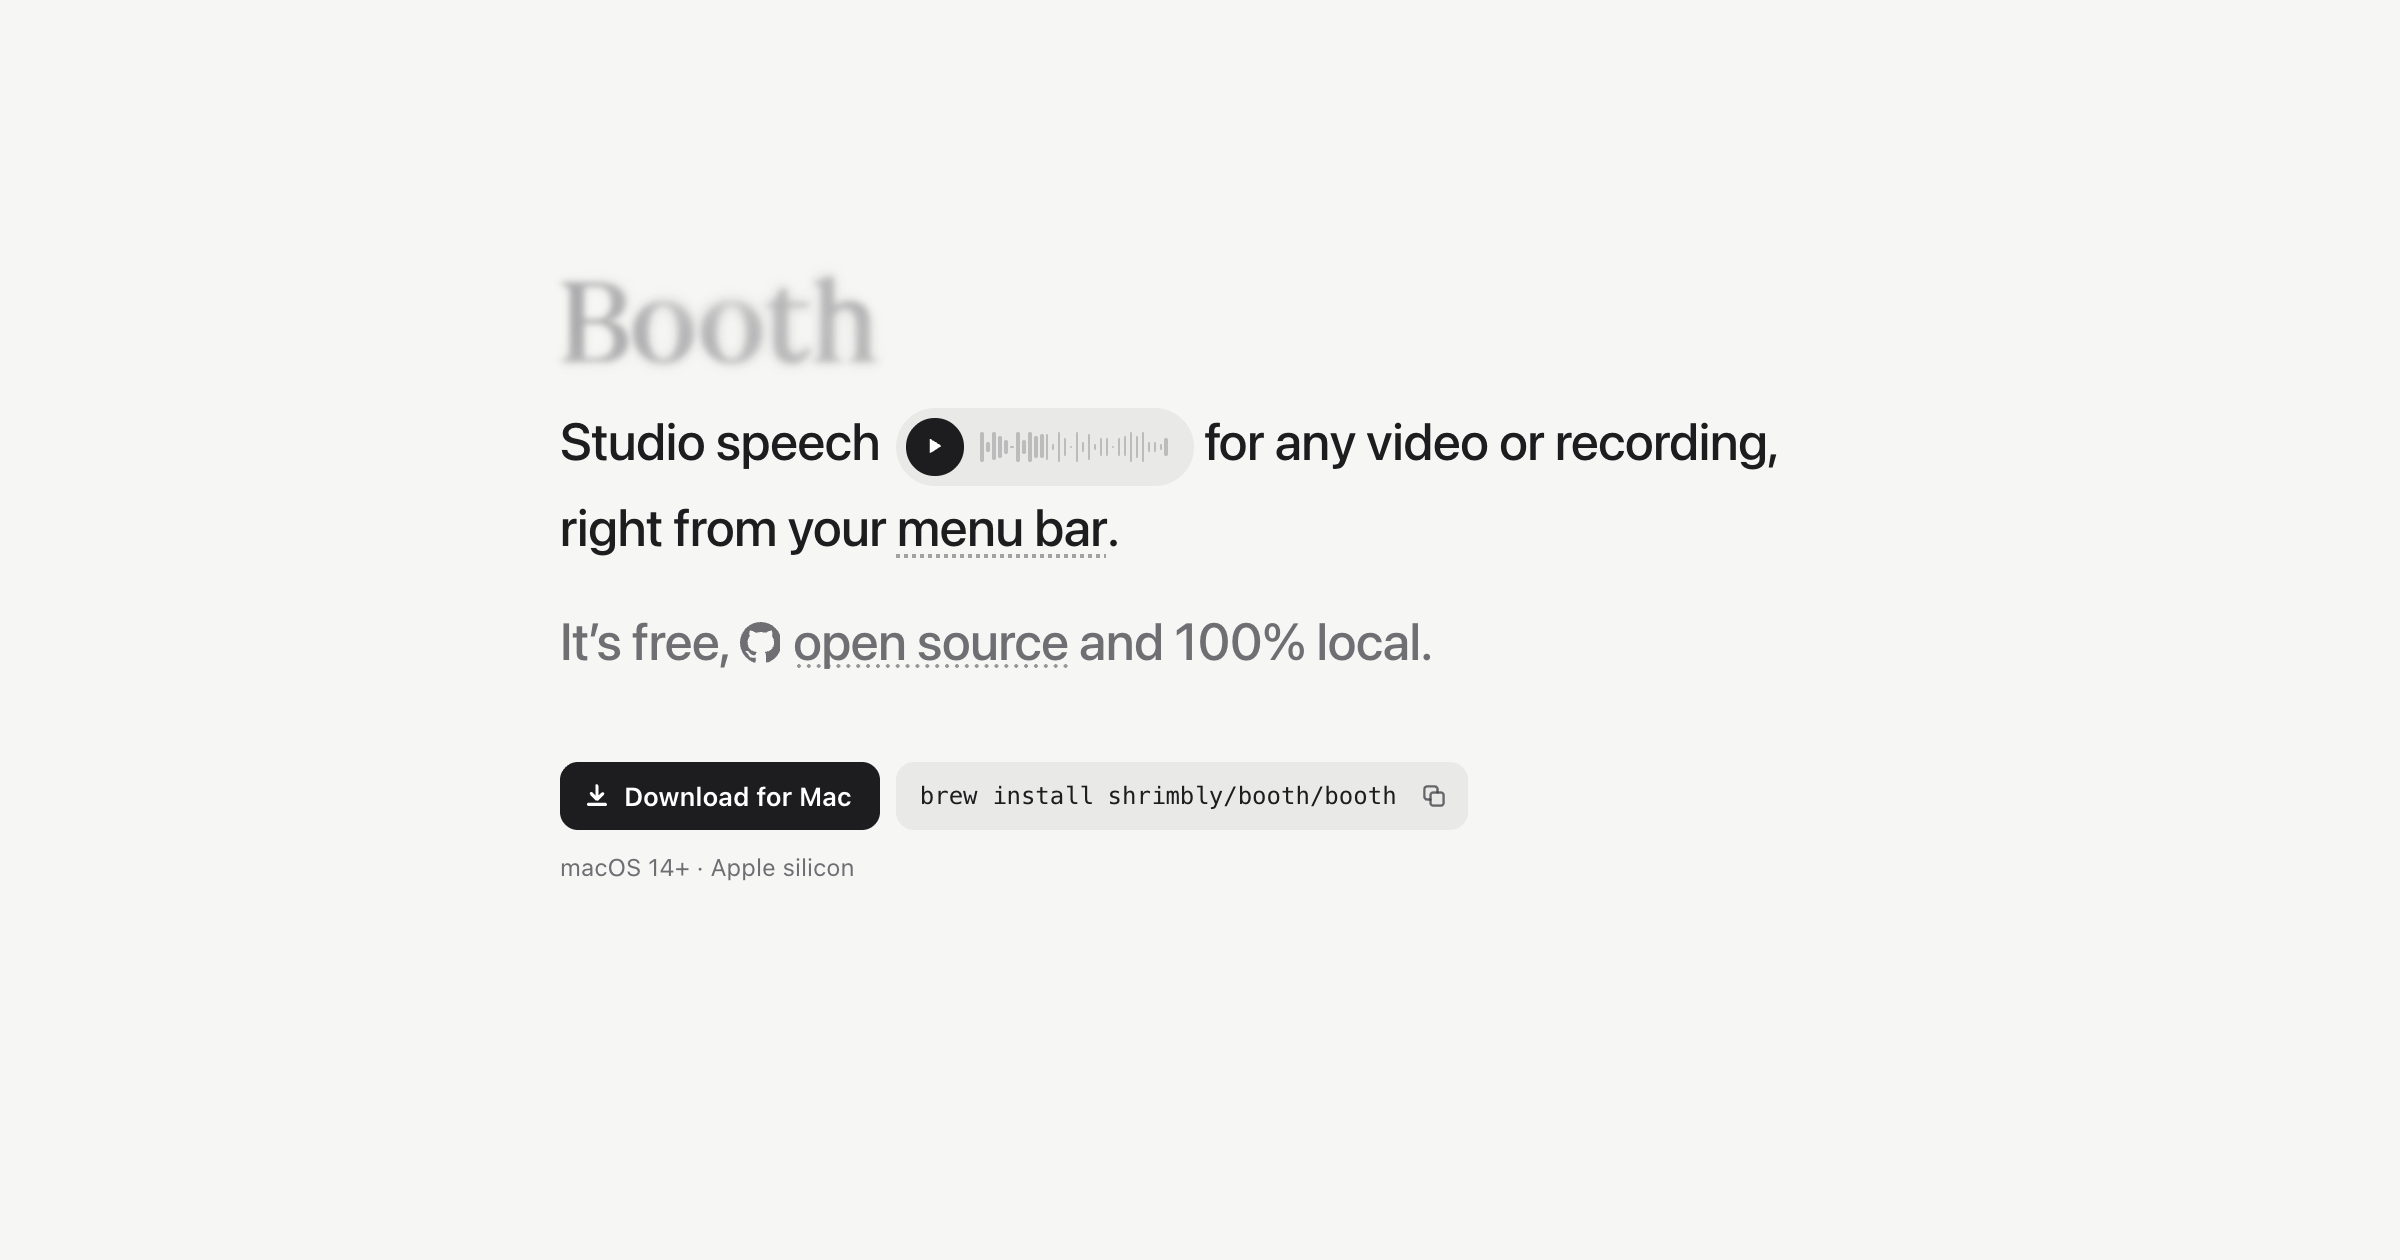
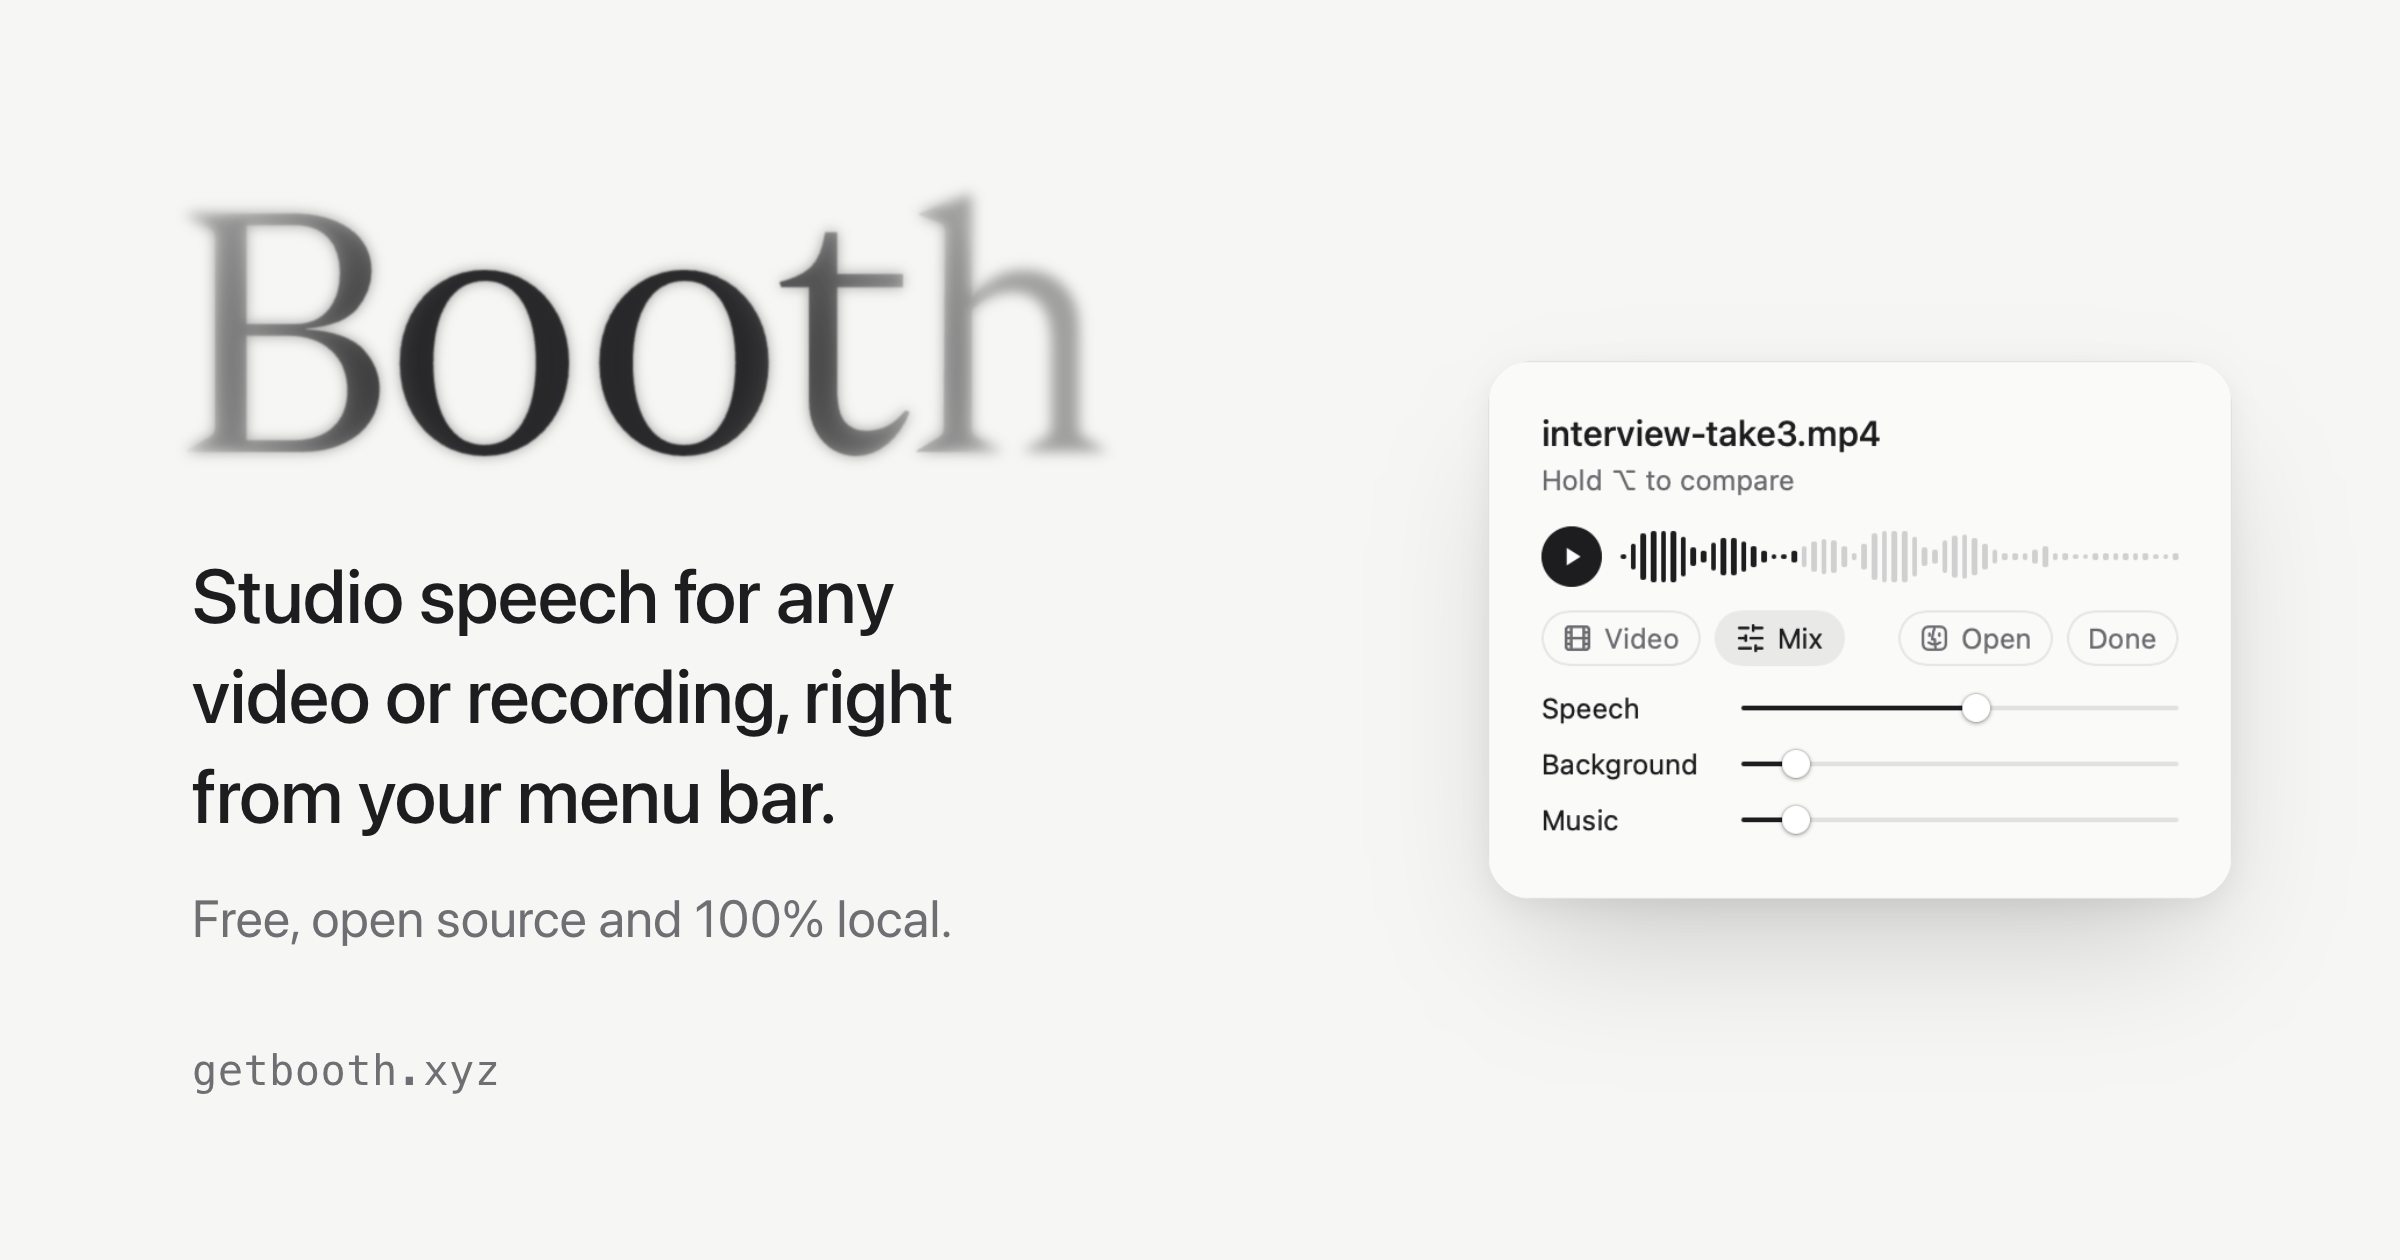
A proper link-preview card: the name, the sentence and Booth's popover

diff --git a/site/tools/og-card.html b/site/tools/og-card.html
@@ -1,0 +1,97 @@
+<!doctype html>
+<!--
+  The link-preview card, site/assets/og.png. Render it at 1200×630, 2×:
+
+    "/Applications/Google Chrome.app/Contents/MacOS/Google Chrome" --headless=new --hide-scrollbars \
+      --force-device-scale-factor=2 --window-size=1200,630 --virtual-time-budget=3000 \
+      --screenshot=site/assets/og.png site/tools/og-card.html
+
+  The popover is docs/images/booth-light.png, which Booth's --render-states draws.
+-->
+<html lang="en">
+<head>
+<meta charset="utf-8">
+<title>Booth card</title>
+<style>
+@font-face {
+  font-family: "Geist Serif";
+  src: url("../assets/GeistSerif-Regular.ttf") format("truetype");
+}
+:root {
+  --paper: #f6f6f4;
+  --ink: #1d1d1f;
+  --muted: #6e6e73;
+  --serif: "Geist Serif", "New York", ui-serif, Georgia, serif;
+  --sans: -apple-system, BlinkMacSystemFont, "SF Pro Display", "Helvetica Neue", system-ui, sans-serif;
+  --mono: ui-monospace, "SF Mono", Menlo, monospace;
+}
+* { box-sizing: border-box; }
+html, body { margin: 0; width: 1200px; height: 630px; overflow: hidden; }
+body {
+  background: var(--paper);
+  color: var(--ink);
+  font-family: var(--sans);
+  -webkit-font-smoothing: antialiased;
+  display: grid;
+  grid-template-columns: 1fr 372px;
+  align-items: center;
+  gap: 64px;
+  padding: 0 84px 0 96px;
+}
+/* The site's name: a soft, faint drawing with a sharp one showing through where it is in focus,
+   as when the pointer rests on it. */
+.name {
+  position: relative;
+  margin: 0 0 22px -6px;
+  font: 168px/1 var(--serif);
+  letter-spacing: -0.01em;
+}
+.name span { display: block; }
+.rest { opacity: 0.4; filter: blur(3.2px); }
+.focus {
+  position: absolute;
+  inset: 0;
+  opacity: 0.92;
+  filter: blur(0.5px);
+  -webkit-mask-image: radial-gradient(ellipse 46% 120% at 34% 58%, #000 30%, transparent 78%);
+  mask-image: radial-gradient(ellipse 46% 120% at 34% 58%, #000 30%, transparent 78%);
+}
+.line {
+  margin: 0;
+  font-size: 38px;
+  line-height: 1.32;
+  letter-spacing: -0.012em;
+  font-weight: 500;
+  max-width: 560px;
+  text-wrap: balance;
+}
+.sub {
+  margin: 18px 0 0;
+  font-size: 26px;
+  line-height: 1.4;
+  color: var(--muted);
+}
+.domain {
+  margin: 46px 0 0;
+  font: 21px var(--mono);
+  color: var(--muted);
+  letter-spacing: 0.01em;
+}
+.popover {
+  width: 372px;
+  display: block;
+  border-radius: 22px;
+  box-shadow: 0 34px 70px -18px rgba(29, 29, 31, 0.22), 0 4px 14px rgba(29, 29, 31, 0.07);
+}
+</style>
+</head>
+<body>
+  <main>
+    <h1 class="name" aria-label="Booth"><span class="rest">Booth</span><span class="focus" aria-hidden="true">Booth</span></h1>
+    <p class="line">Studio speech for any video or recording, right from your menu bar.</p>
+    <p class="sub">Free, open source and 100% local.</p>
+    <p class="domain">getbooth.xyz</p>
+  </main>
+  <img class="popover" src="../../docs/images/booth-light.png" alt="">
+</body>
+</html>

diff --git a/README.md b/README.md
@@ -268,7 +268,8 @@ as a deploy key. Each works on its own, so after renewing the certificate, run j
 open `site/index.html`, or serve the folder with `python3 -m http.server -d site`. Vercel deploys
 it to [getbooth.vercel.app](https://getbooth.vercel.app) from every push to `main` (the project's
 root directory is `site/`; `site/.vercelignore` keeps `tools/` off the web). The download button
-links to `Booth.dmg` on the latest GitHub release.
+links to `Booth.dmg` on the latest GitHub release. The link-preview card, `site/assets/og.png`, is
+`site/tools/og-card.html` rendered by Chrome; the command is at the top of that file.
 To replace the before/after clip:
 
 ```bash
